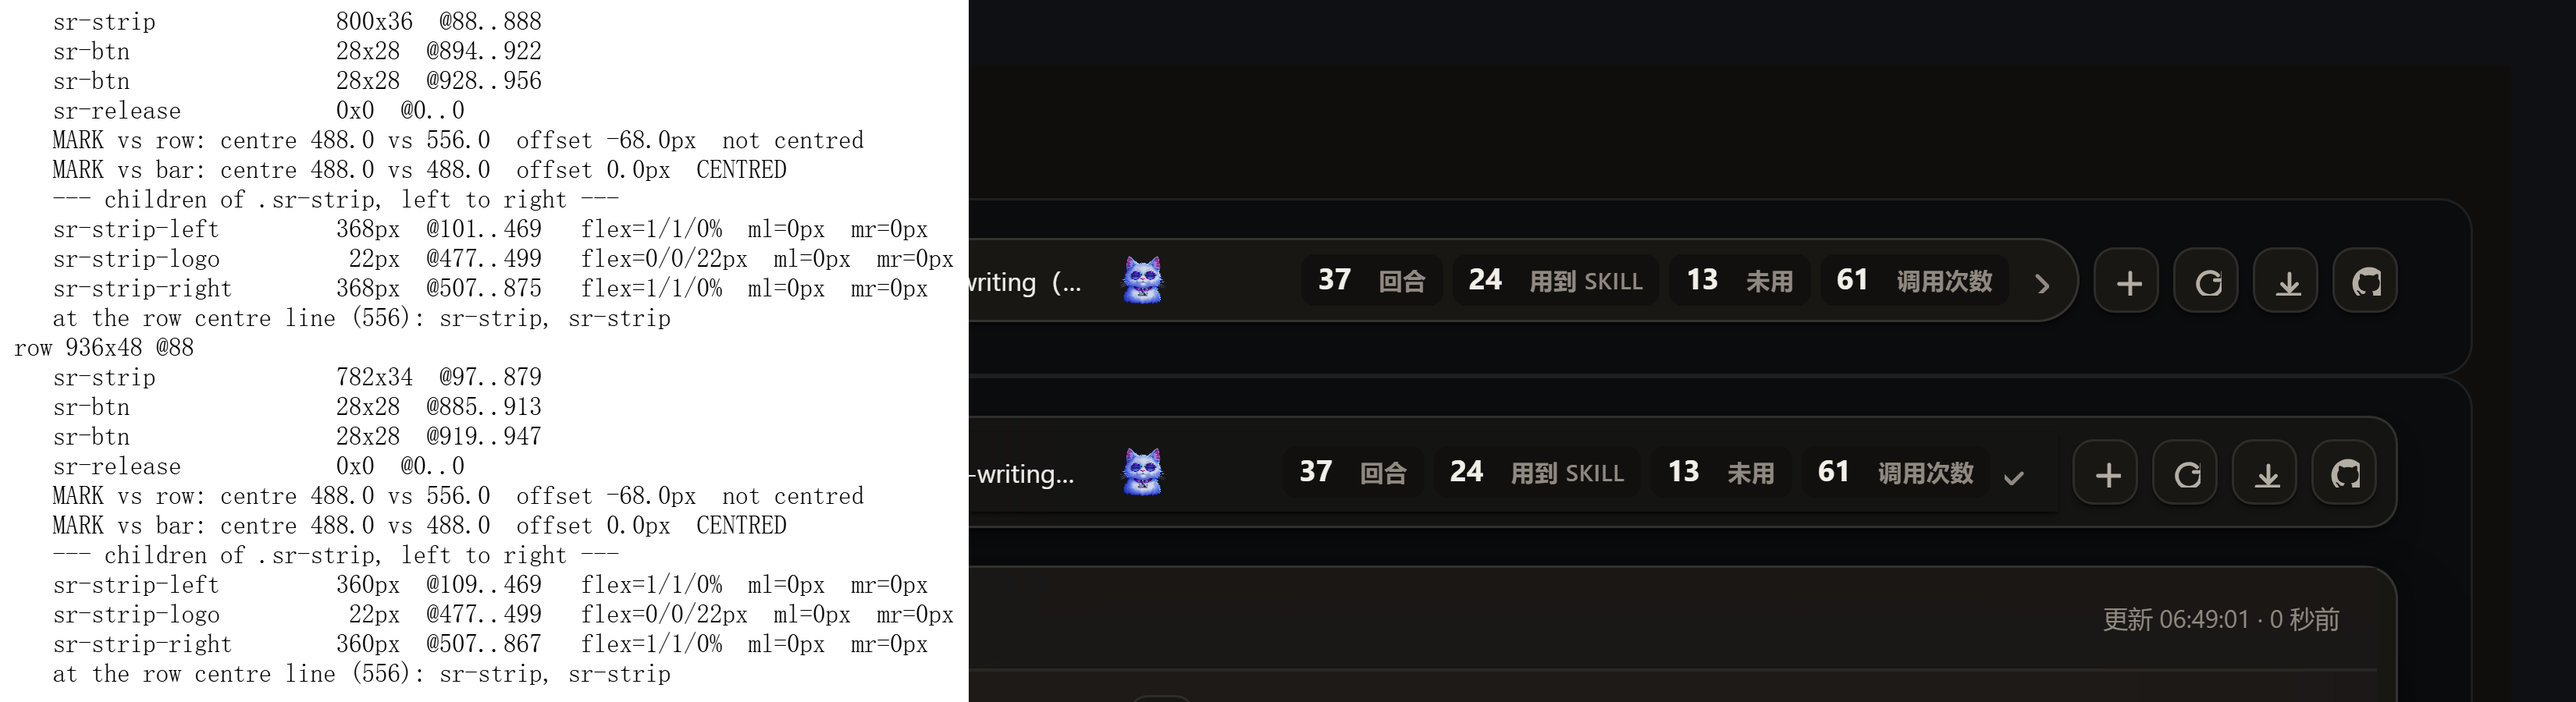
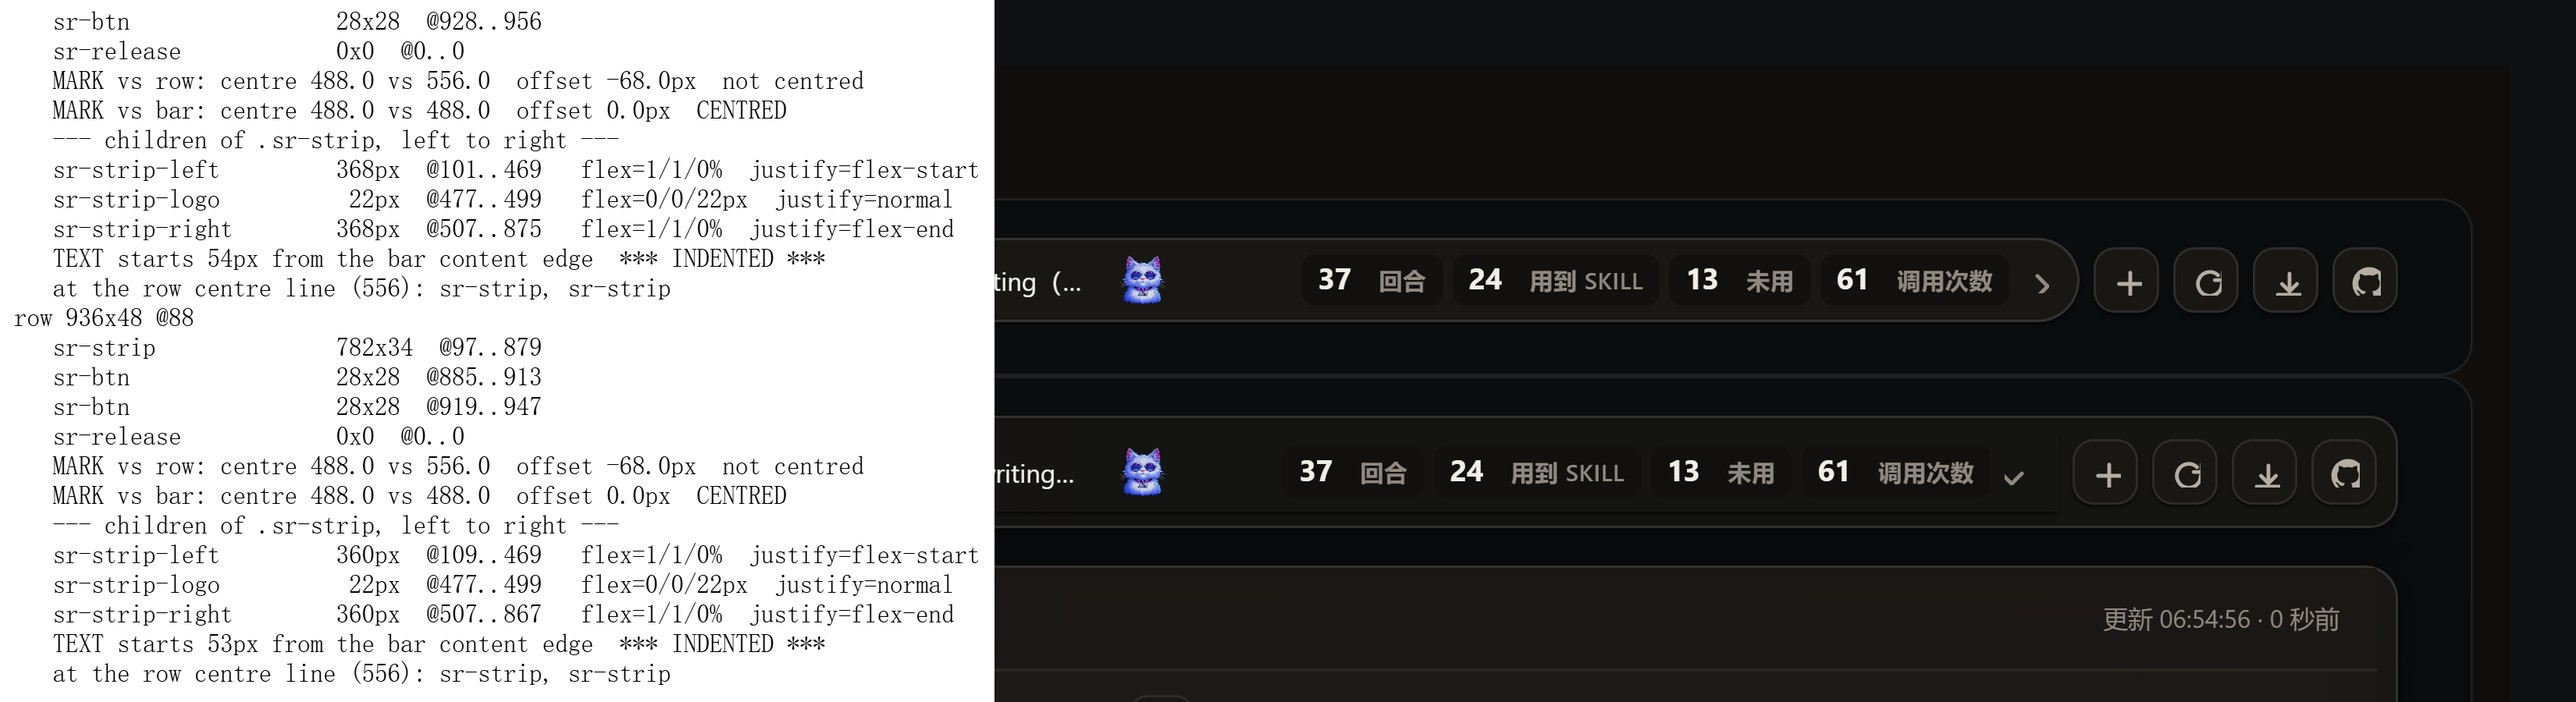
left-align the strip's contents; equal flanks centre the mark, not the text
The user asked why the summary text had become centred, and the answer is that I conflated two
independent things while fixing the previous complaint: I made the two flanks EQUAL so the mark would
be centred, and at the same time pushed their CONTENTS toward the middle to sit against the mark. The
first is what centres the mark; the second is what centred the text.

A flex container's width and its items' alignment are independent, so `flex: 1 1 0%` on both flanks is
all that is needed. The left flank is back to `justify-content: flex-start` with the summary
`text-align: left`, and the right flank keeps `flex-end`. The two flanks now SEESAW about the mark:
change the summary's length and they rebalance without moving it.

Measured after the fix: bar 936px wide, mark centre 460.0 against bar centre 460.0 (offset 0.0px), the
left flank ending at 441 and the right starting at 479, with nothing underneath the mark.

Two assertions added, because the existing ones would not have caught this: they checked that the two
flanks were EQUAL, which was true, and said nothing about where their contents sat. Both the width and
the alignment are now asserted, along with the summary's explicit `text-align: left`.

AND A TOOL FIX THAT HAD BEEN HIDING THE TRUTH. tools/shot-strip.mjs was rendering the strip inside the
two-column preview page, so the strip's column was ~593px instead of the ~936px the real composer
[…]

Changed region(s): [[0.0, 0.0, 0.4058, 1.0], [0.8427, 0.8711, 0.8739, 0.9022]]

diff --git a/lib/client.js b/lib/client.js
@@ -2616,24 +2616,29 @@ window.__ModuleLoader__.load({
 				  // The answer is neither a weight nor an offset but EQUAL FLANKS: two wrappers at `flex:1` are the
 				  // same width by construction, so the mark between them is on the centre line at every width, with
 				  // any labels, and with no number to keep in sync.
+				  // EQUAL WIDTHS DO NOT REQUIRE PUSHING THE CONTENTS TO THE MIDDLE, and conflating the two is what
+				  // this fixes. The flank had `justify-content: flex-end` so that its CONTENT sat against the mark,
+				  // which centred the summary text as well \u2014 the user's report. A flex container's width and its
+				  // items' alignment are independent: `flex: 1 1 0%` alone makes the two flanks equal, and the
+				  // contents still start at their natural edge.
 				  D('r-strip-flank-left', 'frame', '.sr-strip-left', {
-				    flex: '1 1 0%',
-				    minWidth: 0,
-				    display: 'flex',
-				    alignItems: 'center',
-				    justifyContent: 'flex-end',
-				    gap: 6,
-				  }, 'the left flank: equal to the right one by construction, and its contents sit against the mark rather than against the far edge'),
-				  D('r-strip-flank-right', 'frame', '.sr-strip-right', {
 				    flex: '1 1 0%',
 				    minWidth: 0,
 				    display: 'flex',
 				    alignItems: 'center',
 				    justifyContent: 'flex-start',
 				    gap: 6,
-				  }, 'the right flank at the same weight, its contents against the middle too, so the mark sits between two blocks of equal WIDTH'),
-				  D('r-strip-flank-text', 'frame', '.sr-strip-left .sr-strip-text', { flex: '0 1 auto', minWidth: 0, textAlign: 'right' },
-				    'the summary takes its natural width and truncates; it does NOT grow, or it would eat the flank and push the mark off centre'),
+				  }, 'the left flank: equal to the right one by construction, with its contents starting at the bar edge'),
+				  D('r-strip-flank-right', 'frame', '.sr-strip-right', {
+				    flex: '1 1 0%',
+				    minWidth: 0,
+				    display: 'flex',
+				    alignItems: 'center',
+				    justifyContent: 'flex-end',
+				    gap: 6,
+				  }, 'the right flank at the same width, its contents against the far edge \u2014 the two SEESAW about the mark without moving it'),
+				  D('r-strip-flank-text', 'frame', '.sr-strip-left .sr-strip-text', { flex: '0 1 auto', minWidth: 0, textAlign: 'left' },
+				    'the summary takes its natural width and truncates at its right end; explicitly LEFT-aligned, because a centred one-line summary reads as a heading'),
 				  D('r-strip-flank-stats', 'stat', '.sr-strip-right .sr-strip-stats', { flex: 'none', minWidth: 0 },
 				    'and the counters keep their natural size, so the flank around them absorbs the slack'),
 				  D('r-logo-layer', 'frame', '.sr-strip-logo', {

diff --git a/src/client/design.js b/src/client/design.js
@@ -1308,24 +1308,29 @@ const DESIGN = Object.freeze([
   // The answer is neither a weight nor an offset but EQUAL FLANKS: two wrappers at `flex:1` are the
   // same width by construction, so the mark between them is on the centre line at every width, with
   // any labels, and with no number to keep in sync.
+  // EQUAL WIDTHS DO NOT REQUIRE PUSHING THE CONTENTS TO THE MIDDLE, and conflating the two is what
+  // this fixes. The flank had `justify-content: flex-end` so that its CONTENT sat against the mark,
+  // which centred the summary text as well — the user's report. A flex container's width and its
+  // items' alignment are independent: `flex: 1 1 0%` alone makes the two flanks equal, and the
+  // contents still start at their natural edge.
   D('r-strip-flank-left', 'frame', '.sr-strip-left', {
-    flex: '1 1 0%',
-    minWidth: 0,
-    display: 'flex',
-    alignItems: 'center',
-    justifyContent: 'flex-end',
-    gap: 6,
-  }, 'the left flank: equal to the right one by construction, and its contents sit against the mark rather than against the far edge'),
-  D('r-strip-flank-right', 'frame', '.sr-strip-right', {
     flex: '1 1 0%',
     minWidth: 0,
     display: 'flex',
     alignItems: 'center',
     justifyContent: 'flex-start',
     gap: 6,
-  }, 'the right flank at the same weight, its contents against the middle too, so the mark sits between two blocks of equal WIDTH'),
-  D('r-strip-flank-text', 'frame', '.sr-strip-left .sr-strip-text', { flex: '0 1 auto', minWidth: 0, textAlign: 'right' },
-    'the summary takes its natural width and truncates; it does NOT grow, or it would eat the flank and push the mark off centre'),
+  }, 'the left flank: equal to the right one by construction, with its contents starting at the bar edge'),
+  D('r-strip-flank-right', 'frame', '.sr-strip-right', {
+    flex: '1 1 0%',
+    minWidth: 0,
+    display: 'flex',
+    alignItems: 'center',
+    justifyContent: 'flex-end',
+    gap: 6,
+  }, 'the right flank at the same width, its contents against the far edge — the two SEESAW about the mark without moving it'),
+  D('r-strip-flank-text', 'frame', '.sr-strip-left .sr-strip-text', { flex: '0 1 auto', minWidth: 0, textAlign: 'left' },
+    'the summary takes its natural width and truncates at its right end; explicitly LEFT-aligned, because a centred one-line summary reads as a heading'),
   D('r-strip-flank-stats', 'stat', '.sr-strip-right .sr-strip-stats', { flex: 'none', minWidth: 0 },
     'and the counters keep their natural size, so the flank around them absorbs the slack'),
   D('r-logo-layer', 'frame', '.sr-strip-logo', {
